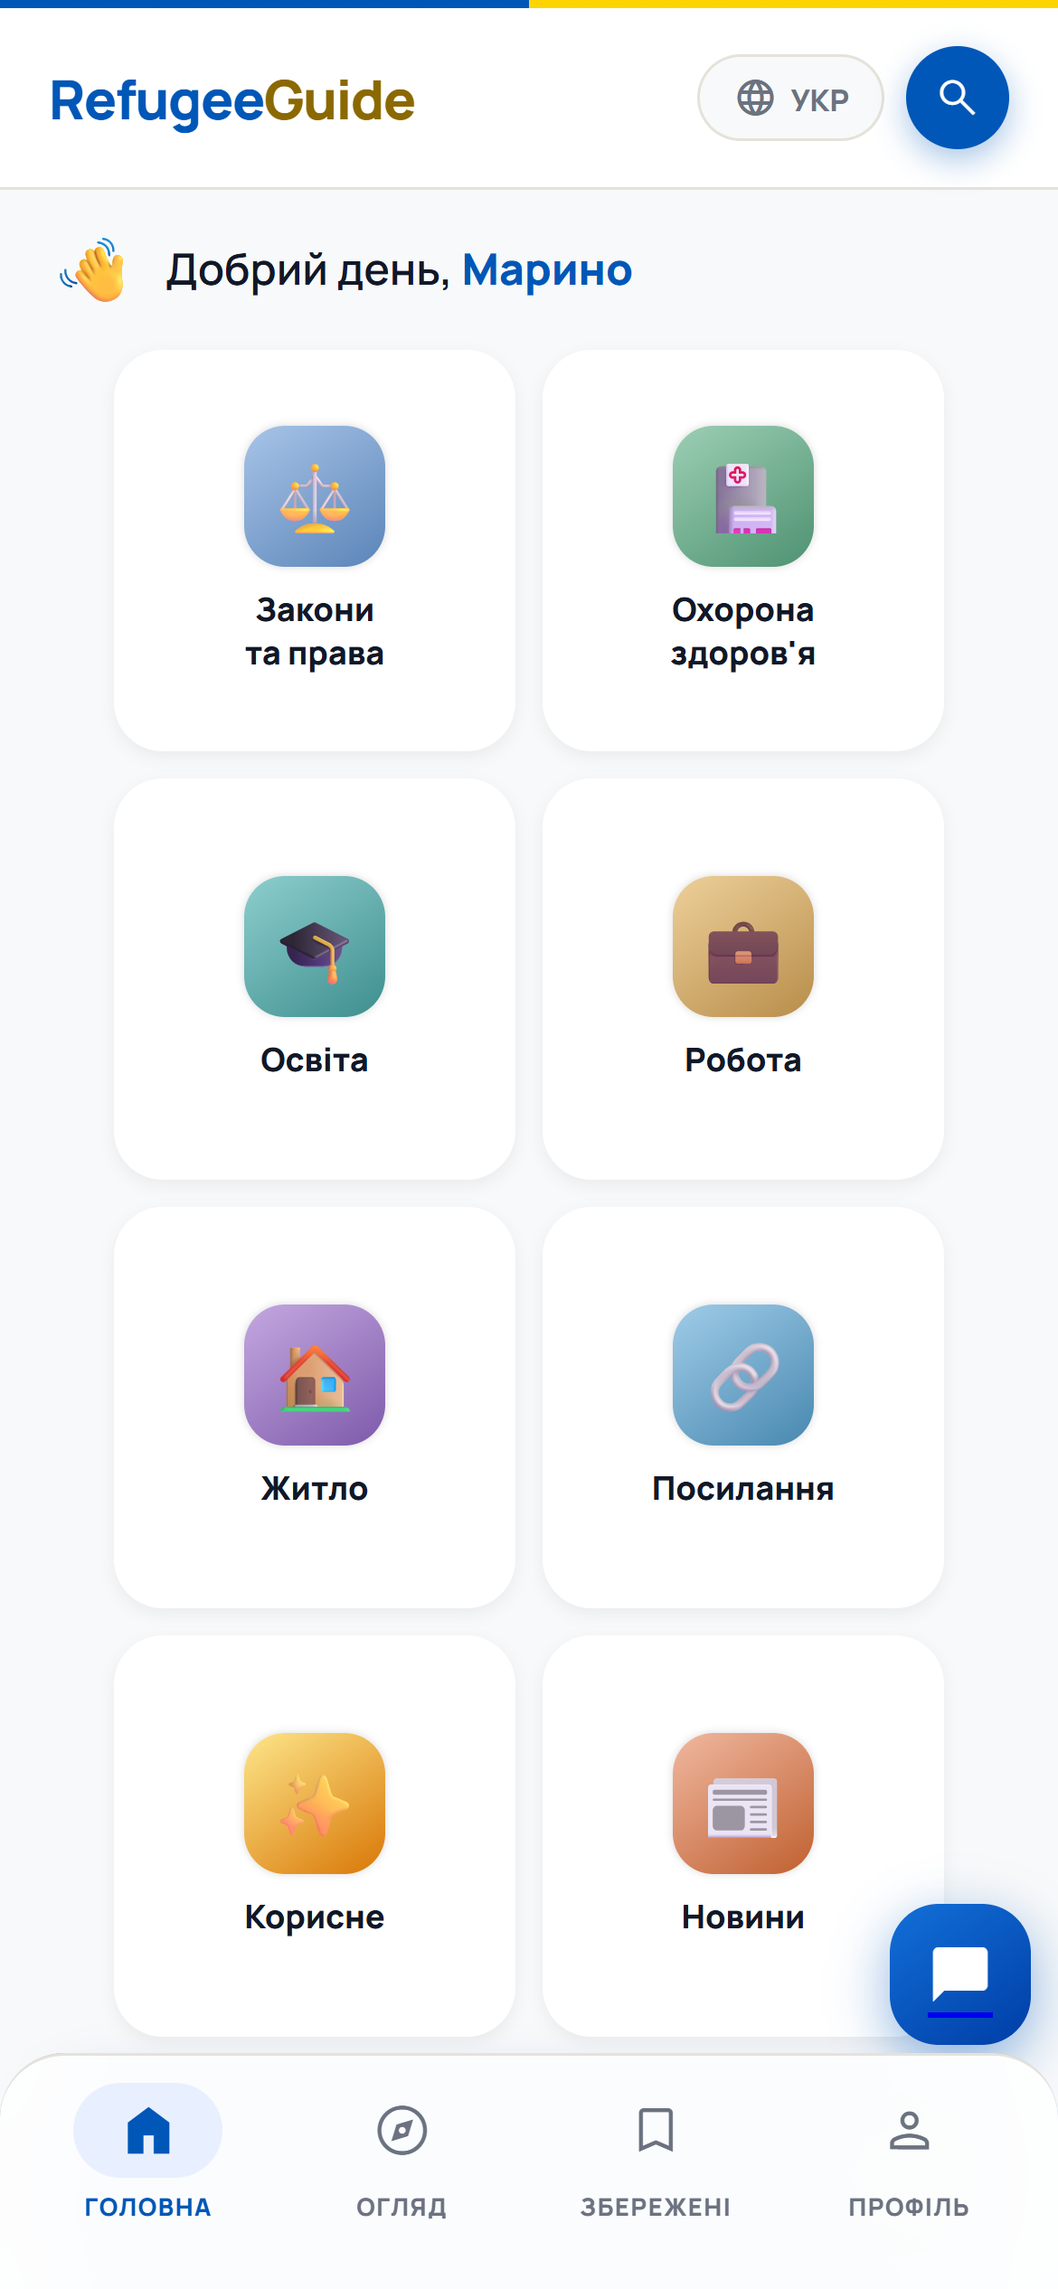
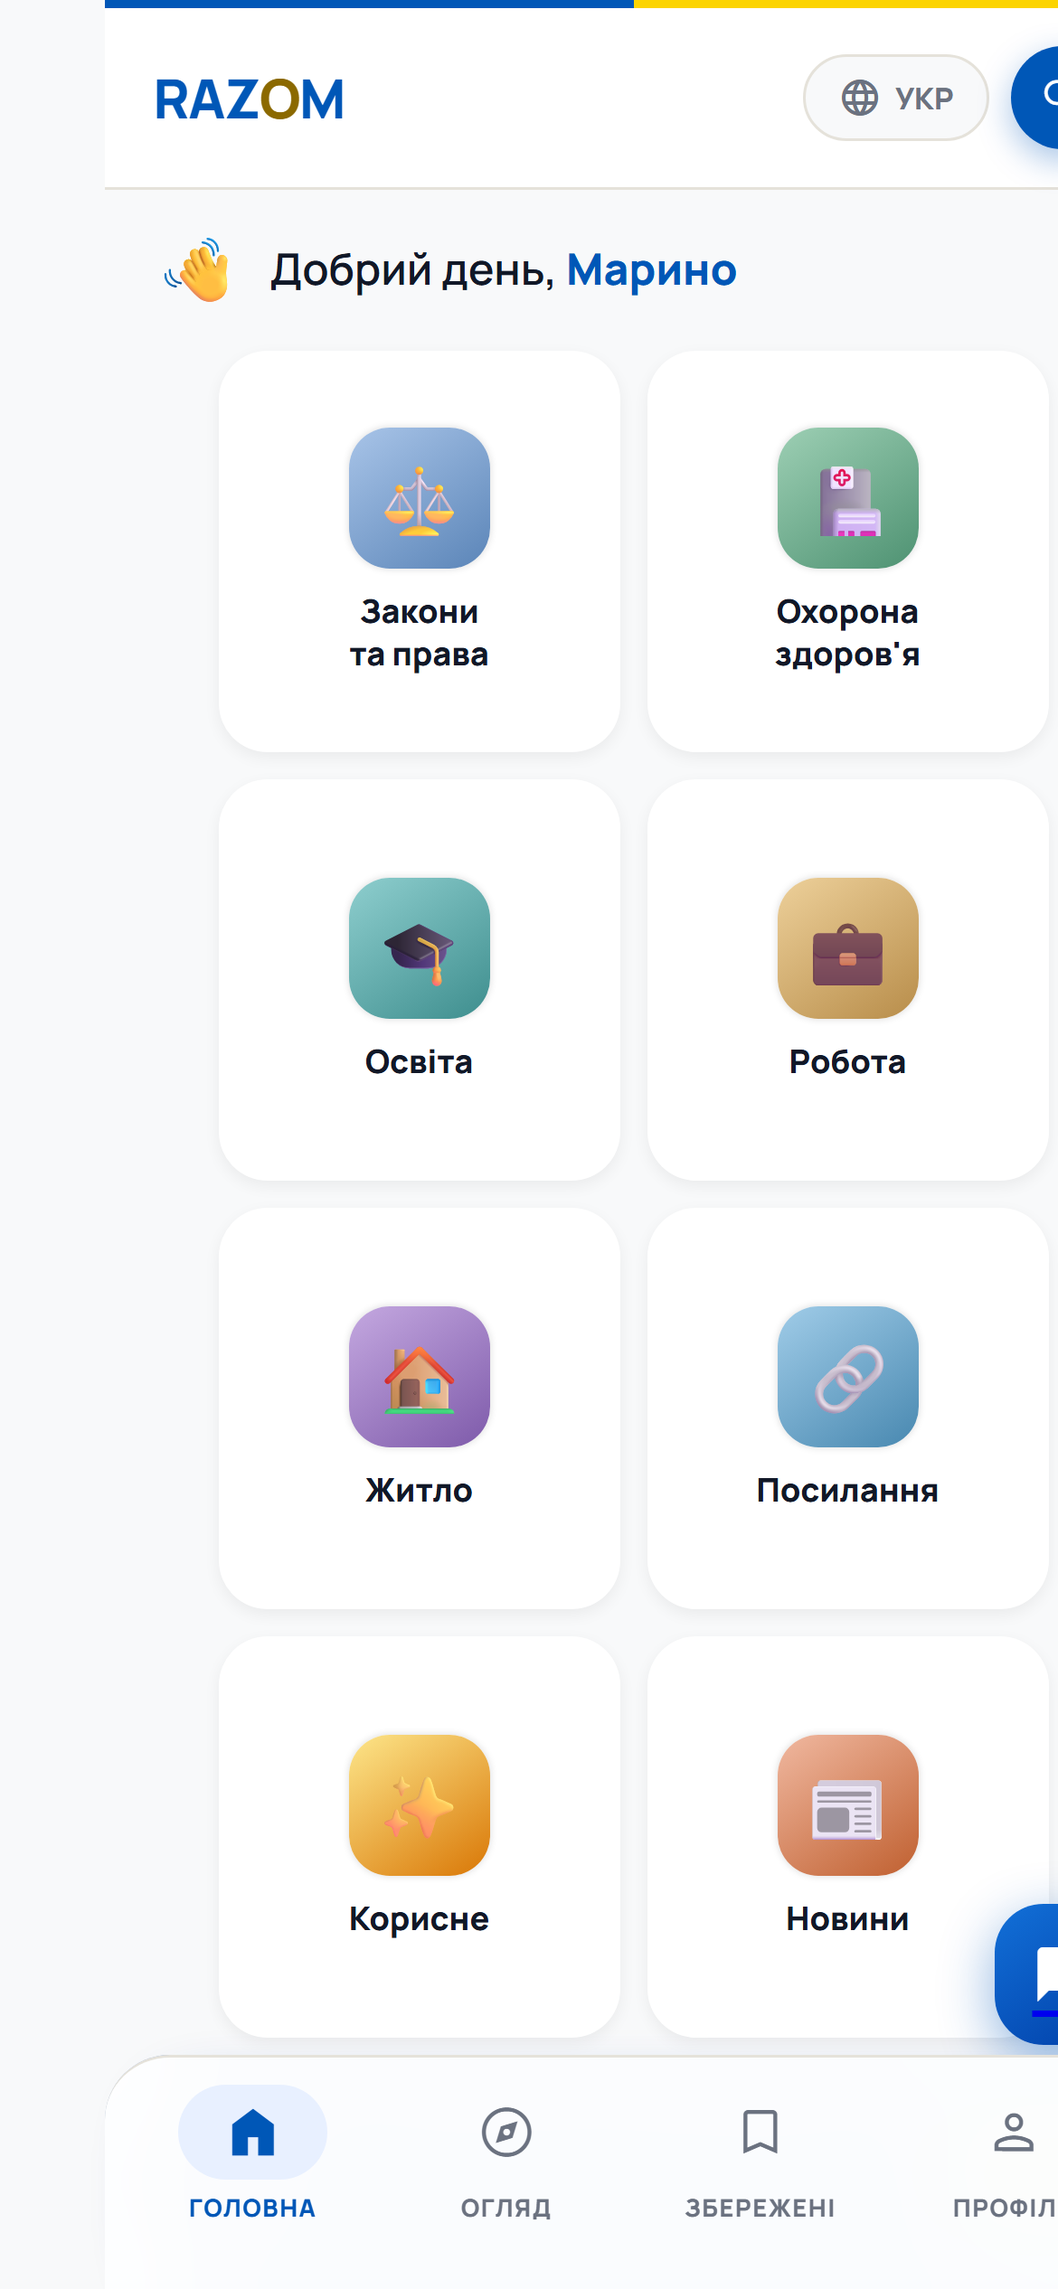
rebrand: rename app from RefugeeGuide to RAZOM across site, listing and store assets
Replaced all in-app and store-listing mentions, redrew the header
wordmark in brand colors, regenerated phone/tablet screenshots and
the feature graphic, and bumped the service worker cache to push the
new branding to already-installed users.

diff --git a/RefugeeApp/Design/Mockups/legal_terms.html b/RefugeeApp/Design/Mockups/legal_terms.html
@@ -3,7 +3,7 @@
 <head>
   <meta charset="UTF-8" />
   <meta name="viewport" content="width=device-width, initial-scale=1.0" />
-  <title>Умови використання — RefugeeGuide</title>
+  <title>Умови використання — RAZOM</title>
   <link href="https://fonts.googleapis.com/css2?family=Manrope:wght@400;500;600;700;800;900&display=swap" rel="stylesheet" />
   <link href="https://fonts.googleapis.com/css2?family=Material+Symbols+Outlined:wght,FILL@100..700,0..1&display=swap" rel="stylesheet" />
   <style>
@@ -108,7 +108,7 @@
     <div class="hero-pattern"></div>
     <div class="hero-icon">📋</div>
     <div class="hero-title">Умови використання</div>
-    <div class="hero-sub">Правила роботи RefugeeGuide. Прочитай, будь ласка — тут коротко і по суті.</div>
+    <div class="hero-sub">Правила роботи RAZOM. Прочитай, будь ласка — тут коротко і по суті.</div>
     <div class="hero-date"><span class="msym" style="font-size:13px;">calendar_today</span> Чинні з 1 червня 2025 р.</div>
   </div>
 
@@ -121,8 +121,8 @@
 
     <!-- Section 1 -->
     <div class="doc-section">
-      <div class="doc-section-title"><span class="num">1</span>Що таке RefugeeGuide</div>
-      <p class="doc-text">RefugeeGuide — це інформаційний довідник для українських біженців у Нідерландах. Він створений однією людиною — Мариною Семіренко, яка сама пройшла цей шлях.</p>
+      <div class="doc-section-title"><span class="num">1</span>Що таке RAZOM</div>
+      <p class="doc-text">RAZOM — це інформаційний довідник для українських біженців у Нідерландах. Він створений однією людиною — Мариною Семіренко, яка сама пройшла цей шлях.</p>
       <p class="doc-text">Застосунок надає довідкову інформацію про права, охорону здоров'я, освіту, роботу та житло. Він <strong>не є юридичною службою</strong> і не замінює консультацію адвоката або офіційних органів.</p>
     </div>
 
@@ -131,7 +131,7 @@
       <div class="doc-section-title"><span class="num">2</span>Важливий дисклеймер</div>
       <div class="highlight-box warning">
         <span class="msym">warning</span>
-        <p class="doc-text">Уся інформація в застосунку є довідковою і може застаріти. Перед прийняттям важливих рішень — особливо юридичних або фінансових — завжди звертайся до офіційних джерел або спеціаліста. RefugeeGuide не несе відповідальності за наслідки дій на основі матеріалів застосунку.</p>
+        <p class="doc-text">Уся інформація в застосунку є довідковою і може застаріти. Перед прийняттям важливих рішень — особливо юридичних або фінансових — завжди звертайся до офіційних джерел або спеціаліста. RAZOM не несе відповідальності за наслідки дій на основі матеріалів застосунку.</p>
       </div>
     </div>
 
@@ -211,7 +211,7 @@
     <!-- Section 8 -->
     <div class="doc-section">
       <div class="doc-section-title"><span class="num">8</span>Прийняття Умов</div>
-      <p class="doc-text">Реєструючись або продовжуючи використовувати RefugeeGuide, ти підтверджуєш, що ознайомилась з цими Умовами, зрозуміла їх і згодна їх дотримуватись.</p>
+      <p class="doc-text">Реєструючись або продовжуючи використовувати RAZOM, ти підтверджуєш, що ознайомилась з цими Умовами, зрозуміла їх і згодна їх дотримуватись.</p>
     </div>
 
     <!-- Contact -->

diff --git a/RefugeeApp/Design/Mockups/legal_privacy.html b/RefugeeApp/Design/Mockups/legal_privacy.html
@@ -3,7 +3,7 @@
 <head>
   <meta charset="UTF-8" />
   <meta name="viewport" content="width=device-width, initial-scale=1.0" />
-  <title>Політика конфіденційності — RefugeeGuide</title>
+  <title>Політика конфіденційності — RAZOM</title>
   <link href="https://fonts.googleapis.com/css2?family=Manrope:wght@400;500;600;700;800;900&display=swap" rel="stylesheet" />
   <link href="https://fonts.googleapis.com/css2?family=Material+Symbols+Outlined:wght,FILL@100..700,0..1&display=swap" rel="stylesheet" />
   <style>
@@ -95,7 +95,7 @@
     <div class="hero-pattern"></div>
     <div class="hero-icon">🔐</div>
     <div class="hero-title">Політика конфіденційності</div>
-    <div class="hero-sub">Як RefugeeGuide збирає, зберігає і захищає твої дані — відповідно до GDPR і законодавства ЄС.</div>
+    <div class="hero-sub">Як RAZOM збирає, зберігає і захищає твої дані — відповідно до GDPR і законодавства ЄС.</div>
     <div class="hero-date"><span class="msym" style="font-size:13px;">calendar_today</span> Чинна з 1 червня 2025 р.</div>
   </div>
 
@@ -109,7 +109,7 @@
     <!-- Section 1 -->
     <div class="doc-section">
       <div class="doc-section-title"><span class="num">1</span>Хто ми і яку відповідальність несемо</div>
-      <p class="doc-text">RefugeeGuide — це мобільний довідник для українських біженців у Нідерландах. Відповідальним за обробку твоїх персональних даних є розробник застосунку, Marina Semirenko (надалі — «ми»).</p>
+      <p class="doc-text">RAZOM — це мобільний довідник для українських біженців у Нідерландах. Відповідальним за обробку твоїх персональних даних є розробник застосунку, Marina Semirenko (надалі — «ми»).</p>
       <p class="doc-text">Ми обробляємо дані лише в межах, необхідних для роботи застосунку, і ніколи не продаємо їх третім особам.</p>
     </div>
 

diff --git a/RefugeeApp/Design/Mockups/profile.html b/RefugeeApp/Design/Mockups/profile.html
@@ -3,7 +3,7 @@
 <head>
   <meta charset="UTF-8" />
   <meta name="viewport" content="width=device-width, initial-scale=1.0" />
-  <title>Профіль — RefugeeGuide</title>
+  <title>Профіль — RAZOM</title>
   <link href="https://fonts.googleapis.com/css2?family=Manrope:wght@400;500;600;700;800;900&display=swap" rel="stylesheet" />
   <link href="https://fonts.googleapis.com/css2?family=Material+Symbols+Outlined:wght,FILL@100..700,0..1&display=swap" rel="stylesheet" />
   <style>
@@ -124,7 +124,7 @@
     <div class="hero-pattern"></div>
     <div class="avatar"><span class="msym o" style="font-size:32px;">person</span></div>
     <div class="profile-name">Привіт! 👋</div>
-    <div class="profile-email">Раді бачити тебе в RefugeeGuide</div>
+    <div class="profile-email">Раді бачити тебе в RAZOM</div>
     <div class="profile-badges">
       <span class="badge-chip badge-free">Безкоштовний план</span>
     </div>
@@ -231,7 +231,7 @@
         <div class="row-icon gray"><span class="msym" style="font-size:18px;">info</span></div>
         <div class="row-info">
           <div class="row-title">Про застосунок</div>
-          <div class="row-sub">RefugeeGuide v1.0 — зроблено Мариною</div>
+          <div class="row-sub">RAZOM v1.0 — зроблено Мариною</div>
         </div>
         <span class="row-right">chevron_right</span>
       </div>
@@ -264,7 +264,7 @@
     <button class="logout-btn"><span class="msym" style="font-size:18px;">logout</span>Вийти з акаунту</button>
   </div>
 
-  <div class="version">RefugeeGuide · Версія 1.0.0</div>
+  <div class="version">RAZOM · Версія 1.0.0</div>
 
 </main>
 

diff --git a/RefugeeApp/Design/Mockups/settings.html b/RefugeeApp/Design/Mockups/settings.html
@@ -3,7 +3,7 @@
 <head>
   <meta charset="UTF-8" />
   <meta name="viewport" content="width=device-width, initial-scale=1.0" />
-  <title>Налаштування — RefugeeGuide</title>
+  <title>Налаштування — RAZOM</title>
   <link href="https://fonts.googleapis.com/css2?family=Manrope:wght@400;500;600;700;800;900&display=swap" rel="stylesheet" />
   <link href="https://fonts.googleapis.com/css2?family=Material+Symbols+Outlined:wght,FILL@100..700,0..1&display=swap" rel="stylesheet" />
   <style>
@@ -118,7 +118,7 @@
     <div class="profile-avatar">👤</div>
     <div class="profile-info">
       <div class="profile-name">Мій профіль</div>
-      <div class="profile-sub">RefugeeGuide · Безкоштовний план</div>
+      <div class="profile-sub">RAZOM · Безкоштовний план</div>
       <div class="plan-badge">FREE</div>
     </div>
   </div>
@@ -160,7 +160,7 @@
     <div class="premium-banner">
       <div class="premium-icon">⭐</div>
       <div class="premium-body">
-        <div class="premium-title">RefugeeGuide Premium</div>
+        <div class="premium-title">RAZOM Premium</div>
         <div class="premium-sub">Весь контент, без реклами, пріоритетний чат</div>
       </div>
       <button class="btn-upgrade">Скоро</button>

diff --git a/RefugeeApp/Design/Mockups/1final_colorful.html b/RefugeeApp/Design/Mockups/1final_colorful.html
@@ -3,12 +3,12 @@
 <head>
   <meta charset="UTF-8" />
   <meta name="viewport" content="width=device-width, initial-scale=1.0" />
-  <title>RefugeeGuide</title>
+  <title>RAZOM</title>
   <link rel="manifest" href="/ClaudeCode/manifest.json" />
   <meta name="theme-color" content="#0057B7" />
   <meta name="mobile-web-app-capable" content="yes" />
   <meta name="apple-mobile-web-app-capable" content="yes" />
-  <meta name="apple-mobile-web-app-title" content="RefugeeGuide" />
+  <meta name="apple-mobile-web-app-title" content="RAZOM" />
   <link rel="apple-touch-icon" href="/ClaudeCode/icons/icon.svg" />
   <link href="https://fonts.googleapis.com/css2?family=Manrope:wght@400;600;700;800;900&display=swap" rel="stylesheet" />
   <link href="https://fonts.googleapis.com/css2?family=Material+Symbols+Outlined:wght,FILL@100..700,0..1&display=swap" rel="stylesheet" />
@@ -267,7 +267,7 @@
 
   <!-- HEADER -->
   <header>
-    <div class="logo">Refugee<em>Guide</em></div>
+    <div class="logo">RAZ<em>O</em>M</div>
     <div class="hdr-right">
       <button class="lang-btn">
         <span class="msym">language</span>УКР

diff --git a/index.html b/index.html
@@ -3,13 +3,13 @@
 <head>
   <meta charset="UTF-8" />
   <meta name="viewport" content="width=device-width, initial-scale=1.0" />
-  <title>RefugeeGuide</title>
+  <title>RAZOM</title>
   <link rel="manifest" href="/ClaudeCode/manifest.json" />
   <meta name="theme-color" content="#0057B7" />
   <meta name="mobile-web-app-capable" content="yes" />
   <meta name="apple-mobile-web-app-capable" content="yes" />
   <meta name="apple-mobile-web-app-status-bar-style" content="default" />
-  <meta name="apple-mobile-web-app-title" content="RefugeeGuide" />
+  <meta name="apple-mobile-web-app-title" content="RAZOM" />
   <link rel="apple-touch-icon" href="/ClaudeCode/icons/icon.svg" />
   <meta http-equiv="refresh" content="0; url=RefugeeApp/Design/Mockups/1final_colorful.html" />
 </head>

diff --git a/RefugeeApp/Design/Mockups/search.html b/RefugeeApp/Design/Mockups/search.html
@@ -3,7 +3,7 @@
 <head>
   <meta charset="UTF-8" />
   <meta name="viewport" content="width=device-width, initial-scale=1.0" />
-  <title>Огляд — RefugeeGuide</title>
+  <title>Огляд — RAZOM</title>
   <link href="https://fonts.googleapis.com/css2?family=Manrope:wght@400;500;600;700;800;900&display=swap" rel="stylesheet" />
   <link href="https://fonts.googleapis.com/css2?family=Material+Symbols+Outlined:wght,FILL@100..700,0..1&display=swap" rel="stylesheet" />
   <style>
@@ -77,7 +77,7 @@
 
 <header>
   <div class="header-top">
-    <div class="logo">Refugee<em>Guide</em></div>
+    <div class="logo">RAZ<em>O</em>M</div>
   </div>
   <div class="search-wrap">
     <span class="search-icon">search</span>

diff --git a/RefugeeApp/Design/Mockups/19_community.html b/RefugeeApp/Design/Mockups/19_community.html
@@ -3,7 +3,7 @@
 <head>
   <meta charset="UTF-8" />
   <meta name="viewport" content="width=device-width, initial-scale=1.0" />
-  <title>Українська спільнота — RefugeeGuide</title>
+  <title>Українська спільнота — RAZOM</title>
   <link href="https://fonts.googleapis.com/css2?family=Manrope:wght@400;500;600;700;800;900&display=swap" rel="stylesheet" />
   <link href="https://fonts.googleapis.com/css2?family=Material+Symbols+Outlined:wght,FILL@100..700,0..1&display=swap" rel="stylesheet" />
   <style>

diff --git a/RefugeeApp/Design/Mockups/19_subsidies.html b/RefugeeApp/Design/Mockups/19_subsidies.html
@@ -3,7 +3,7 @@
 <head>
   <meta charset="UTF-8" />
   <meta name="viewport" content="width=device-width, initial-scale=1.0" />
-  <title>Субсидії та знижки — RefugeeGuide</title>
+  <title>Субсидії та знижки — RAZOM</title>
   <link href="https://fonts.googleapis.com/css2?family=Manrope:wght@400;500;600;700;800;900&display=swap" rel="stylesheet" />
   <link href="https://fonts.googleapis.com/css2?family=Material+Symbols+Outlined:wght,FILL@100..700,0..1&display=swap" rel="stylesheet" />
   <style>

diff --git a/RefugeeApp/Design/Mockups/19_language.html b/RefugeeApp/Design/Mockups/19_language.html
@@ -3,7 +3,7 @@
 <head>
   <meta charset="UTF-8" />
   <meta name="viewport" content="width=device-width, initial-scale=1.0" />
-  <title>Вчи нідерландську — RefugeeGuide</title>
+  <title>Вчи нідерландську — RAZOM</title>
   <link href="https://fonts.googleapis.com/css2?family=Manrope:wght@400;500;600;700;800;900&display=swap" rel="stylesheet" />
   <link href="https://fonts.googleapis.com/css2?family=Material+Symbols+Outlined:wght,FILL@100..700,0..1&display=swap" rel="stylesheet" />
   <style>

diff --git a/RefugeeApp/Design/Mockups/19_driving.html b/RefugeeApp/Design/Mockups/19_driving.html
@@ -3,7 +3,7 @@
 <head>
   <meta charset="UTF-8" />
   <meta name="viewport" content="width=device-width, initial-scale=1.0" />
-  <title>Авто та парковка — RefugeeGuide</title>
+  <title>Авто та парковка — RAZOM</title>
   <link href="https://fonts.googleapis.com/css2?family=Manrope:wght@400;500;600;700;800;900&display=swap" rel="stylesheet" />
   <link href="https://fonts.googleapis.com/css2?family=Material+Symbols+Outlined:wght,FILL@100..700,0..1&display=swap" rel="stylesheet" />
   <style>

diff --git a/RefugeeApp/Design/Mockups/19_apps.html b/RefugeeApp/Design/Mockups/19_apps.html
@@ -3,7 +3,7 @@
 <head>
   <meta charset="UTF-8" />
   <meta name="viewport" content="width=device-width, initial-scale=1.0" />
-  <title>Корисні додатки — RefugeeGuide</title>
+  <title>Корисні додатки — RAZOM</title>
   <link href="https://fonts.googleapis.com/css2?family=Manrope:wght@400;500;600;700;800;900&display=swap" rel="stylesheet" />
   <link href="https://fonts.googleapis.com/css2?family=Material+Symbols+Outlined:wght,FILL@100..700,0..1&display=swap" rel="stylesheet" />
   <style>
